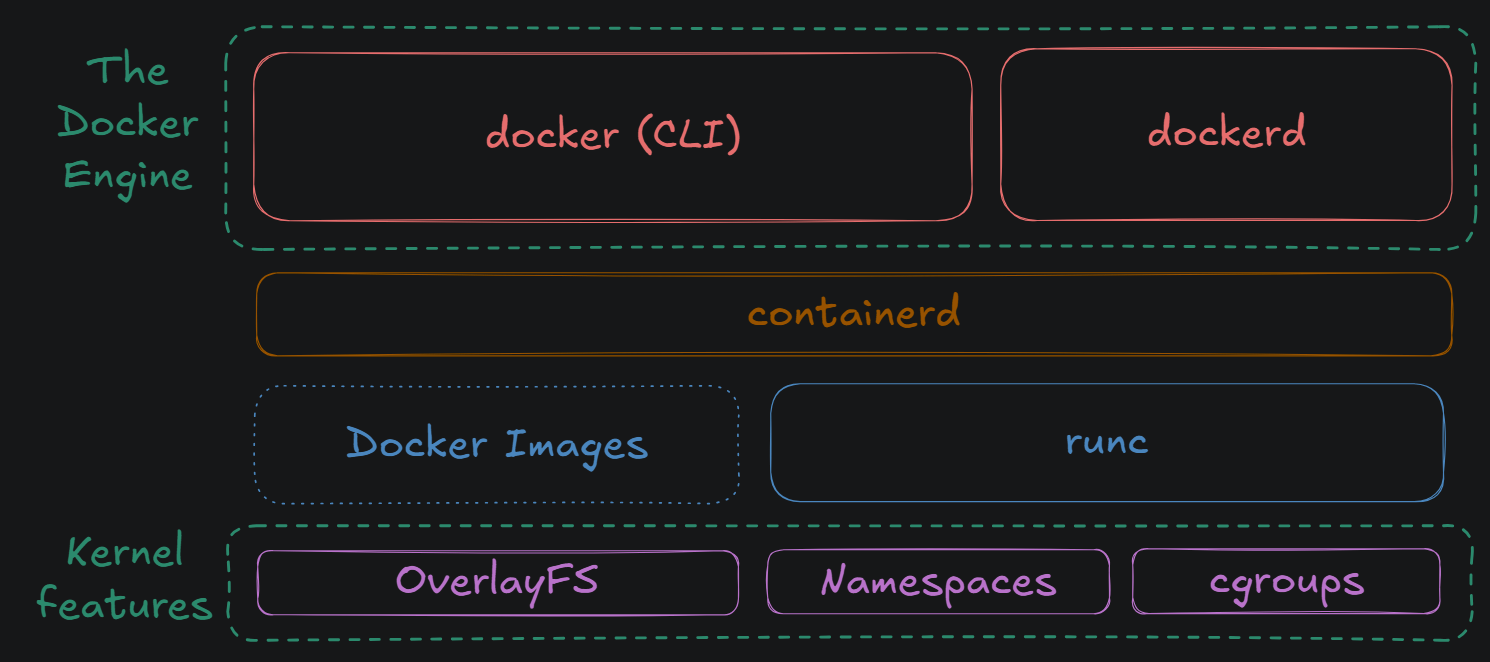
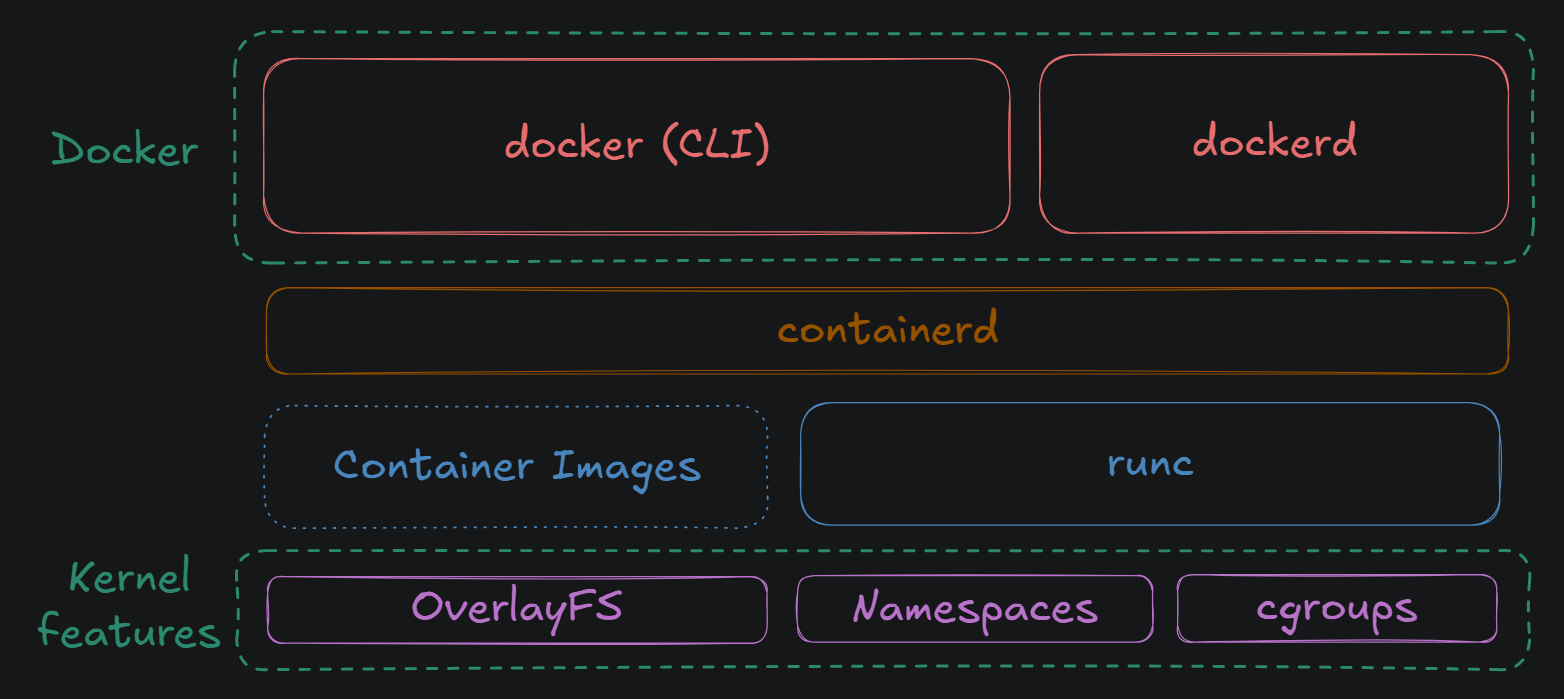
update image, fix styling

diff --git a/presentation/src/theme.css b/presentation/src/theme.css
@@ -9,16 +9,6 @@
 @import url("https://fonts.googleapis.com/css2?family=Atkinson+Hyperlegible+Next:ital,wght@0,200..800;1,200..800&display=swap");
 @import url("https://fonts.googleapis.com/css2?family=Space+Grotesk:wght@300..700&display=swap");
 
-section.has-dark-background,
-section.has-dark-background h1,
-section.has-dark-background h2,
-section.has-dark-background h3,
-section.has-dark-background h4,
-section.has-dark-background h5,
-section.has-dark-background h6 {
-  color: #fff;
-}
-
 /*********************************************
   * GLOBAL STYLES
   *********************************************/

diff --git a/README.md b/README.md
@@ -4,6 +4,8 @@ This repo contains a presentation on Docker internals, including cgroups, namesp
 
 - [Docker Internals Task](https://github.com/kossiitkgp/KOSS-Selection-Tasks/blob/master/Teaching/Miscellaneous/docker_internals.md)
 
+`docs` contains notes/information on the topic, gathered from various sources.
+
 The presentation is a Reveal.js presentation, and can be viewed in a web browser. It is deployed on GitHub Pages, and can be viewed [here](https://dipamsen.github.io/docker-internals/).
 
 To run the presentation locally, you can clone the repository, and run the following commands:
